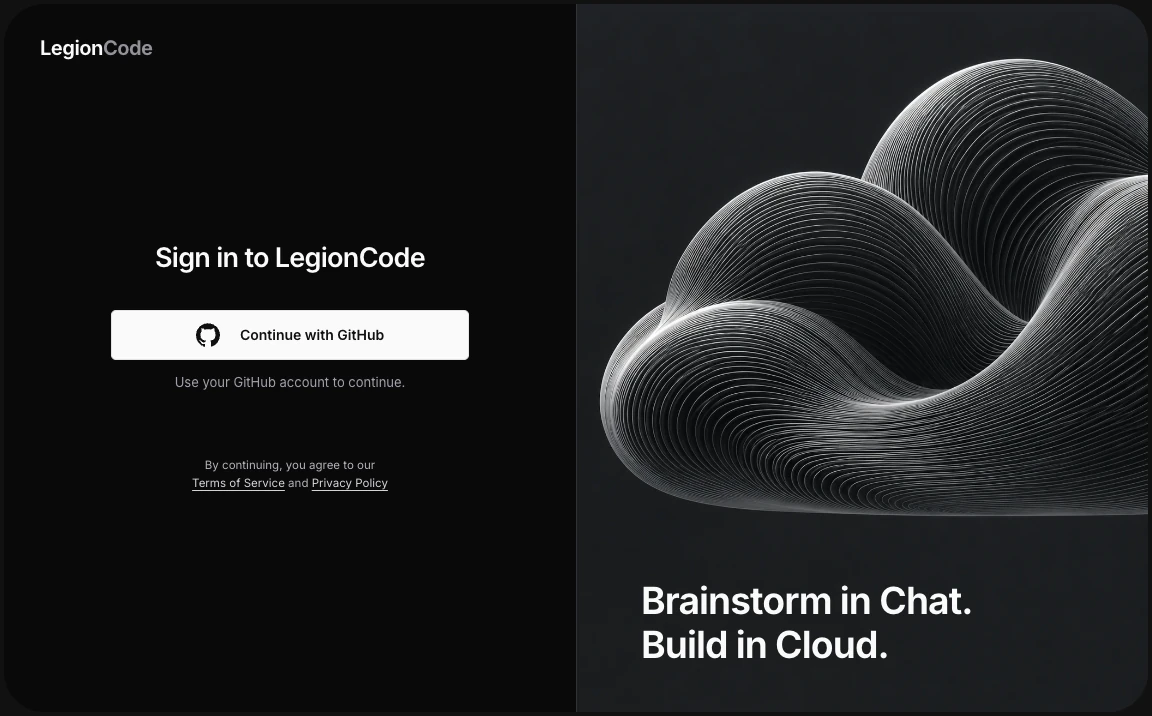
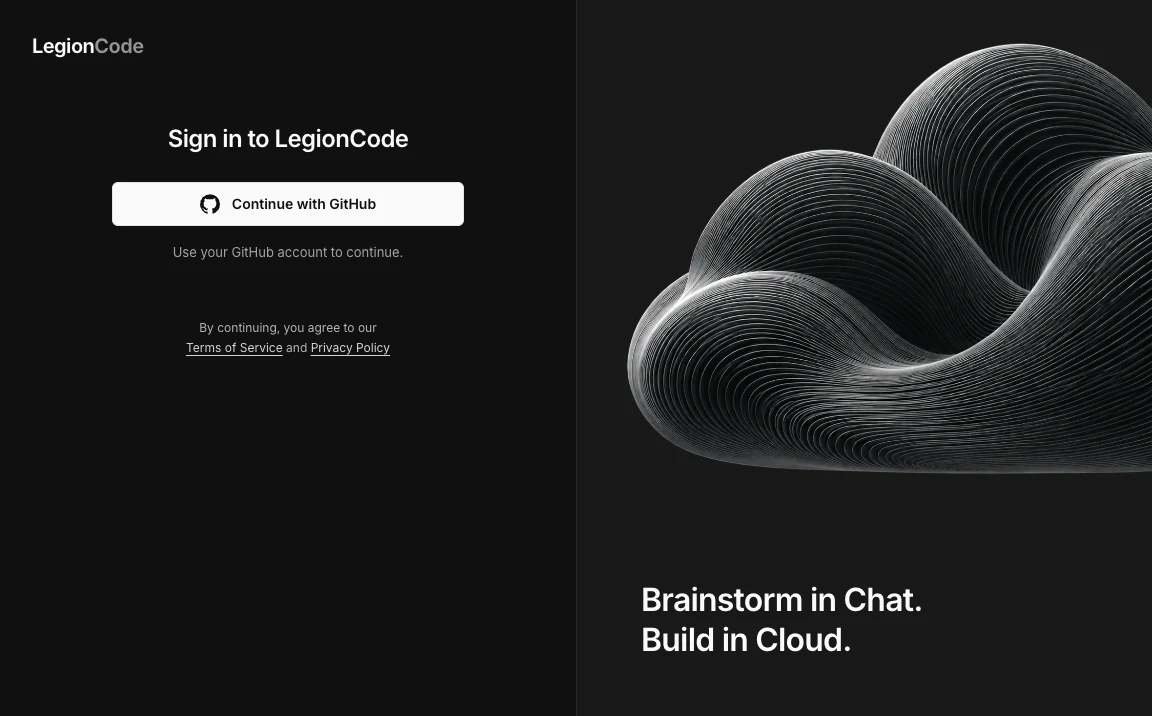
fix(web): refine login scale and flatten cloud backdrop

diff --git a/apps/web/src/components/onboarding/GitHubSignInPage.css b/apps/web/src/components/onboarding/GitHubSignInPage.css
@@ -9,8 +9,7 @@
 .sign-in {
   height: 100%;
   overflow: hidden;
-  padding: 4px;
-  background: #111112;
+  background: #101010;
   color: #fafafa;
   font-family: "LegionCode Inter", "Helvetica Neue", Arial, sans-serif;
   -webkit-font-smoothing: antialiased;
@@ -19,8 +18,7 @@
 .sign-in__layout {
   height: 100%;
   overflow-y: auto;
-  border-radius: 24px;
-  background: #09090a;
+  background: #101010;
 }
 
 .sign-in__entry {
@@ -45,17 +43,17 @@
 .sign-in__content {
   align-self: center;
   justify-self: center;
-  width: min(100%, 360px);
+  width: min(100%, 352px);
   padding: 64px 0 88px;
   text-align: center;
 }
 
 .sign-in__title {
-  margin: 0 0 32px;
-  font-size: clamp(24px, 4.8vw, 28px);
+  margin: 0 0 28px;
+  font-size: 24px;
   font-weight: 600;
   line-height: 1.25;
-  letter-spacing: -0.75px;
+  letter-spacing: -0.6px;
   text-wrap: balance;
 }
 
@@ -63,12 +61,12 @@
   display: flex;
   align-items: center;
   justify-content: center;
-  gap: 20px;
+  gap: 12px;
   width: 100%;
-  min-height: 48px;
+  min-height: 44px;
   border: 1px solid #e4e4e7;
-  border-radius: 5px;
-  padding: 12px 20px;
+  border-radius: 6px;
+  padding: 10px 16px;
   background: #fafafa;
   color: #101011;
   font-size: 14px;
@@ -92,22 +90,22 @@
 
 .sign-in__github svg {
   flex-shrink: 0;
-  width: 24px;
-  height: 24px;
+  width: 20px;
+  height: 20px;
 }
 
 .sign-in__help {
-  margin: 20px 0 0;
+  margin: 16px 0 0;
   color: #a1a1aa;
   font-size: 13px;
   line-height: 20px;
 }
 
 .sign-in__consent {
-  margin: 64px 0 0;
+  margin: 56px 0 0;
   color: #b4b4bb;
-  font-size: 11.5px;
-  line-height: 18px;
+  font-size: 12px;
+  line-height: 20px;
 }
 
 .sign-in__policy {
@@ -130,80 +128,44 @@
   .sign-in__layout {
     display: grid;
     grid-template-columns: 1fr 1fr;
-    border-radius: 40px;
   }
 
   .sign-in__entry {
-    padding: clamp(36px, 3.125vw, 50px);
-  }
-
-  .sign-in__wordmark {
-    font-size: clamp(20px, 1.75vw, 28px);
-    line-height: 1.4;
-    transform: translateY(-6px);
+    padding: 32px;
   }
 
   .sign-in__content {
     align-self: start;
-    width: min(100%, clamp(352px, 31vw, 480px));
-    margin-top: clamp(100px, 24.1svh, 300px);
-    padding: 0 0 64px;
-  }
-
-  .sign-in__title {
-    margin-bottom: clamp(35px, 3.05vw, 48px);
-    font-size: clamp(26px, 2.35vw, 36px);
-  }
-
-  .sign-in__github {
-    gap: clamp(20px, 1.75vw, 24px);
-    min-height: clamp(48px, 4.2vw, 64px);
-    font-size: clamp(14px, 1.2vw, 18px);
-  }
-
-  .sign-in__github svg {
-    width: clamp(24px, 2.05vw, 32px);
-    height: clamp(24px, 2.05vw, 32px);
-  }
-
-  .sign-in__help {
-    margin-top: clamp(12px, 1.05vw, 16px);
-    font-size: clamp(13px, 1.12vw, 16px);
-    line-height: 1.55;
-  }
-
-  .sign-in__consent {
-    margin-top: clamp(64px, 5.55vw, 88px);
-    font-size: clamp(11.5px, 1vw, 15px);
-    line-height: 1.6;
+    margin-top: clamp(64px, 8svh, 96px);
+    padding: 0 0 56px;
   }
 
   .sign-in__visual {
     position: relative;
     display: flex;
     align-items: flex-end;
-    min-height: max(calc(100svh - 8px), 680px);
+    min-height: max(100svh, 600px);
     overflow: hidden;
-    border-left: 1px solid #303236;
-    padding: clamp(36px, 4vw, 64px) clamp(40px, 5.55vw, 88px);
-    background: #202225;
+    border-left: 1px solid #282828;
+    padding: 56px 64px;
+    background: #191919;
   }
 
   .sign-in__artwork {
     position: absolute;
     inset: 0;
     background-image: url("../../assets/sign-in-cloud.webp");
-    background-position: 75% 8px;
-    background-size: auto 108%;
+    background-position: right top;
+    background-size: cover;
     background-repeat: no-repeat;
   }
 
   .sign-in__tagline {
     position: relative;
     margin: 0;
-    font-size: clamp(32px, 3.25vw, 52px);
-    font-weight: 650;
-    line-height: 1.16;
+    font-size: 32px;
+    font-weight: 600;
+    line-height: 1.25;
     letter-spacing: -0.025em;
   }
 }
